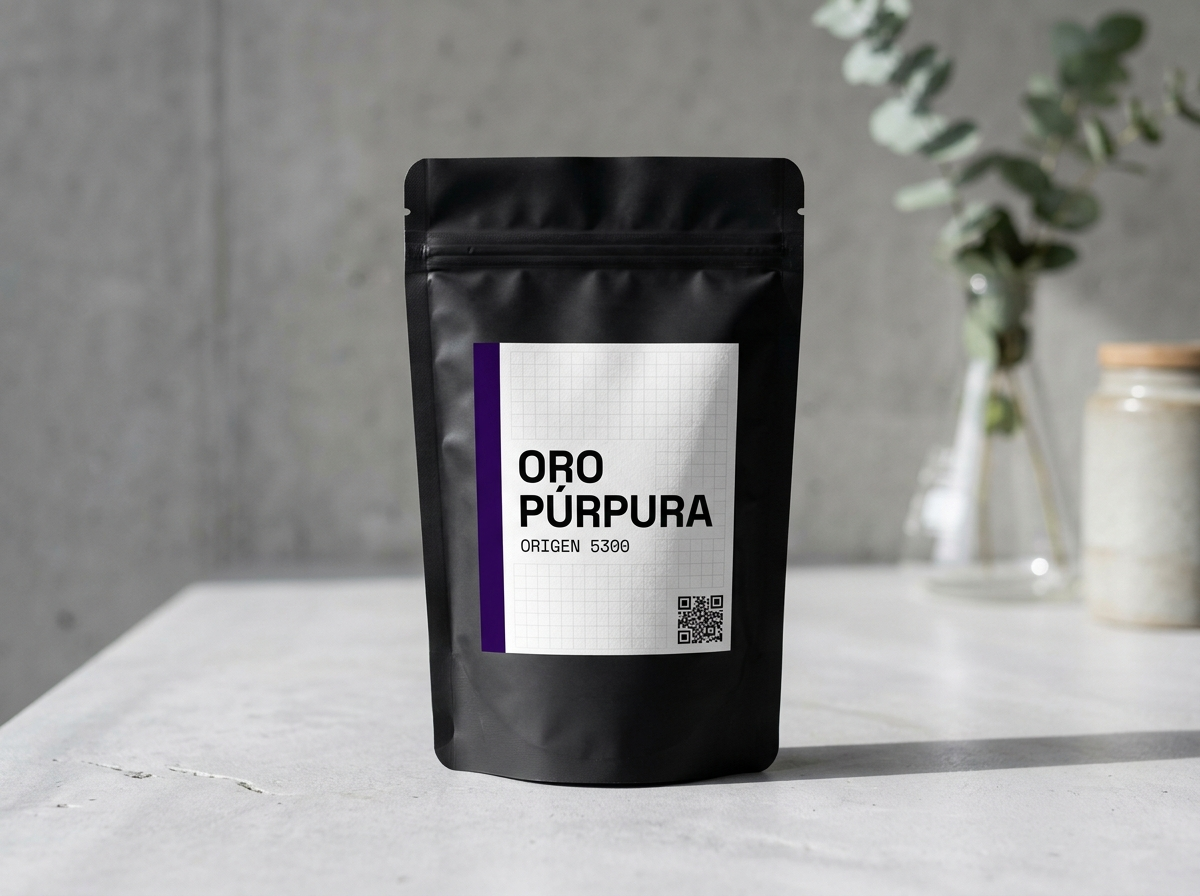
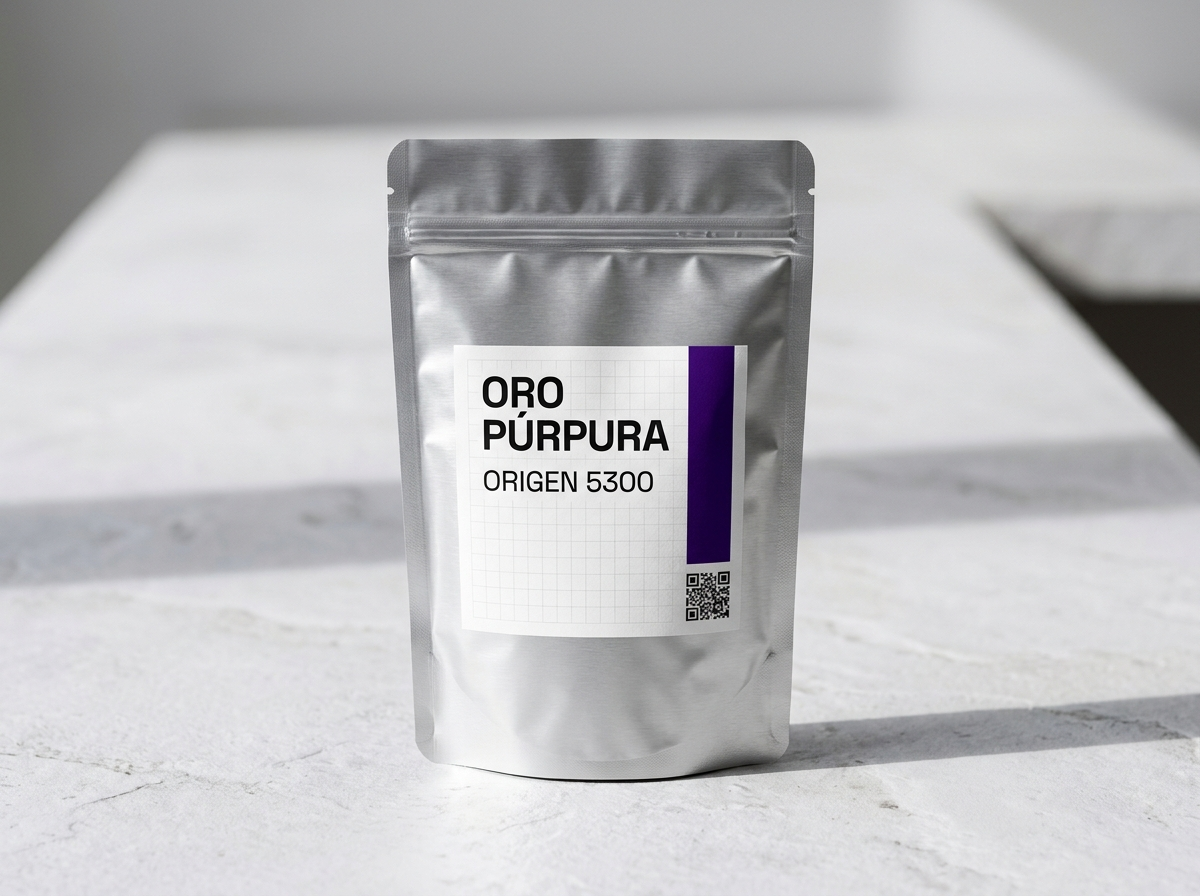
feat: add silver metallized packaging and temporary product photos for sets, SKUs, and calibrator

diff --git a/src/App.tsx b/src/App.tsx
@@ -285,6 +285,20 @@ export function App() {
                     </span>
                   </div>
 
+                  <div className="calibrator-visual">
+                    <img
+                      src={
+                        activeGoal.id === 'focus'
+                          ? '/images/sku-inca-silk.jpg'
+                          : activeGoal.id === 'energy'
+                            ? '/images/ruby-lavender-elixir.jpg'
+                            : '/images/sku-andean-gold.jpg'
+                      }
+                      alt={activeGoal.formulaName}
+                      className="calibrator-visual-img"
+                    />
+                  </div>
+
                   <div className="protocol-grid">
                     <div className="protocol-box">
                       <div className="protocol-box-label">{activeGoal.protocolPrimaryLabel}</div>
@@ -351,6 +365,19 @@ export function App() {
                   className={`set-card ${bundle.featured ? 'featured' : ''}`}
                 >
                   <div>
+                    <div className="set-visual">
+                      <img
+                        src={
+                          bundle.id === 'set-01'
+                            ? '/images/sku-inca-silk.jpg'
+                            : bundle.id === 'set-02'
+                              ? '/images/set-alquimia-bundle.jpg'
+                              : '/images/apothecary-packaging.jpg'
+                        }
+                        alt={bundle.name}
+                        className="set-visual-img"
+                      />
+                    </div>
                     <span className="set-badge">{bundle.badge}</span>
                     <div className="set-header-row">
                       <div>
@@ -432,14 +459,27 @@ export function App() {
                   <article key={sku.id} className={`sku-card accent-${sku.accentToken}`}>
                     <div className="sku-main">
                       <div className="sku-top">
-                        <div>
-                          <div className="mono" style={{ fontSize: '0.75rem', color: 'var(--ink-muted)' }}>
-                            {sku.code} • {sku.cacaoPercent}
+                        <div className="sku-identity">
+                          <img
+                            src={
+                              sku.id === 'inca'
+                                ? '/images/sku-inca-silk.jpg'
+                                : sku.id === 'andean'
+                                  ? '/images/sku-andean-gold.jpg'
+                                  : '/images/ruby-lavender-elixir.jpg'
+                            }
+                            alt={sku.name}
+                            className="sku-thumb"
+                          />
+                          <div>
+                            <div className="mono" style={{ fontSize: '0.75rem', color: 'var(--ink-muted)' }}>
+                              {sku.code} • {sku.cacaoPercent}
+                            </div>
+                            <h3 style={{ marginTop: '4px' }}>{sku.name}</h3>
+                            <p style={{ margin: '6px 0 0', color: 'var(--ink-muted)', fontSize: '0.94rem' }}>
+                              {sku.tagline}
+                            </p>
                           </div>
-                          <h3 style={{ marginTop: '4px' }}>{sku.name}</h3>
-                          <p style={{ margin: '6px 0 0', color: 'var(--ink-muted)', fontSize: '0.94rem' }}>
-                            {sku.tagline}
-                          </p>
                         </div>
 
                         <div className="sku-price-block">

diff --git a/src/index.css b/src/index.css
@@ -1100,6 +1100,49 @@ h3 {
   gap: 16px;
 }
 
+.sku-identity {
+  display: flex;
+  flex-wrap: wrap;
+  align-items: flex-start;
+  gap: 16px;
+  flex: 1 1 320px;
+}
+
+.sku-thumb {
+  width: 112px;
+  height: 84px;
+  object-fit: cover;
+  border: 1px solid var(--border-strong);
+  border-radius: var(--radius-sharp);
+  flex-shrink: 0;
+}
+
+.calibrator-visual {
+  border: 1px solid var(--border-strong);
+  border-radius: var(--radius-sharp);
+  overflow: hidden;
+  margin-bottom: 16px;
+}
+
+.calibrator-visual-img {
+  width: 100%;
+  height: 180px;
+  object-fit: cover;
+}
+
+.set-visual {
+  border: 1px solid var(--border-subtle);
+  border-radius: var(--radius-sharp);
+  overflow: hidden;
+  margin-bottom: 16px;
+}
+
+.set-visual-img {
+  width: 100%;
+  aspect-ratio: 4 / 3;
+  object-fit: cover;
+}
+
 .sku-price-block {
   text-align: left;
 }
